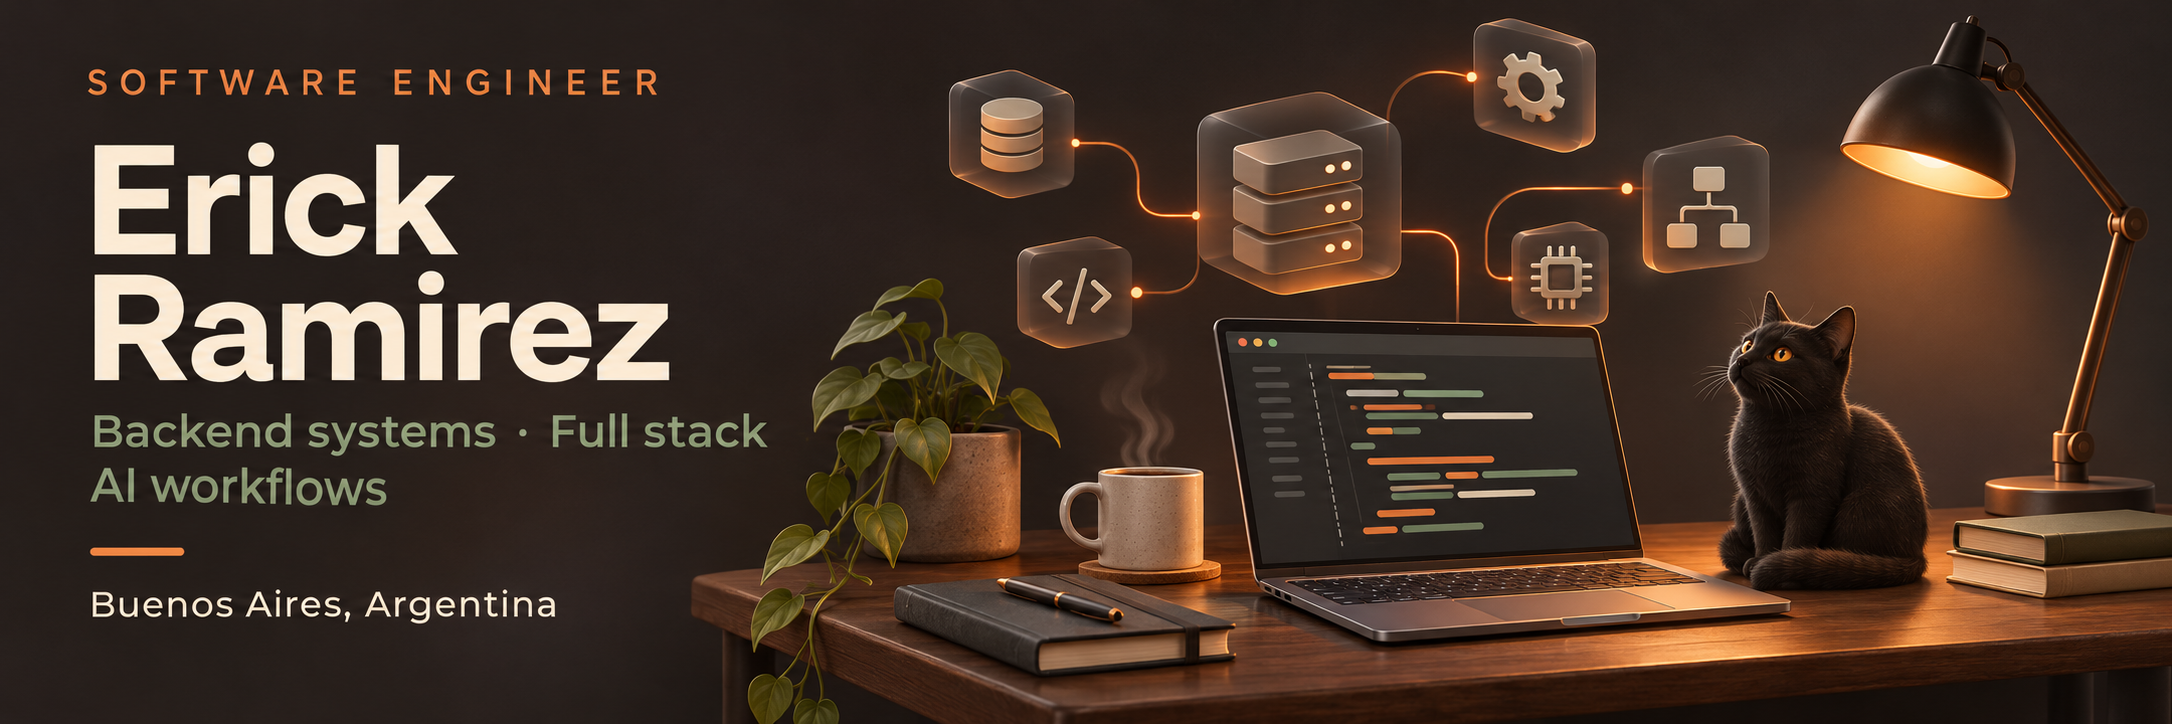
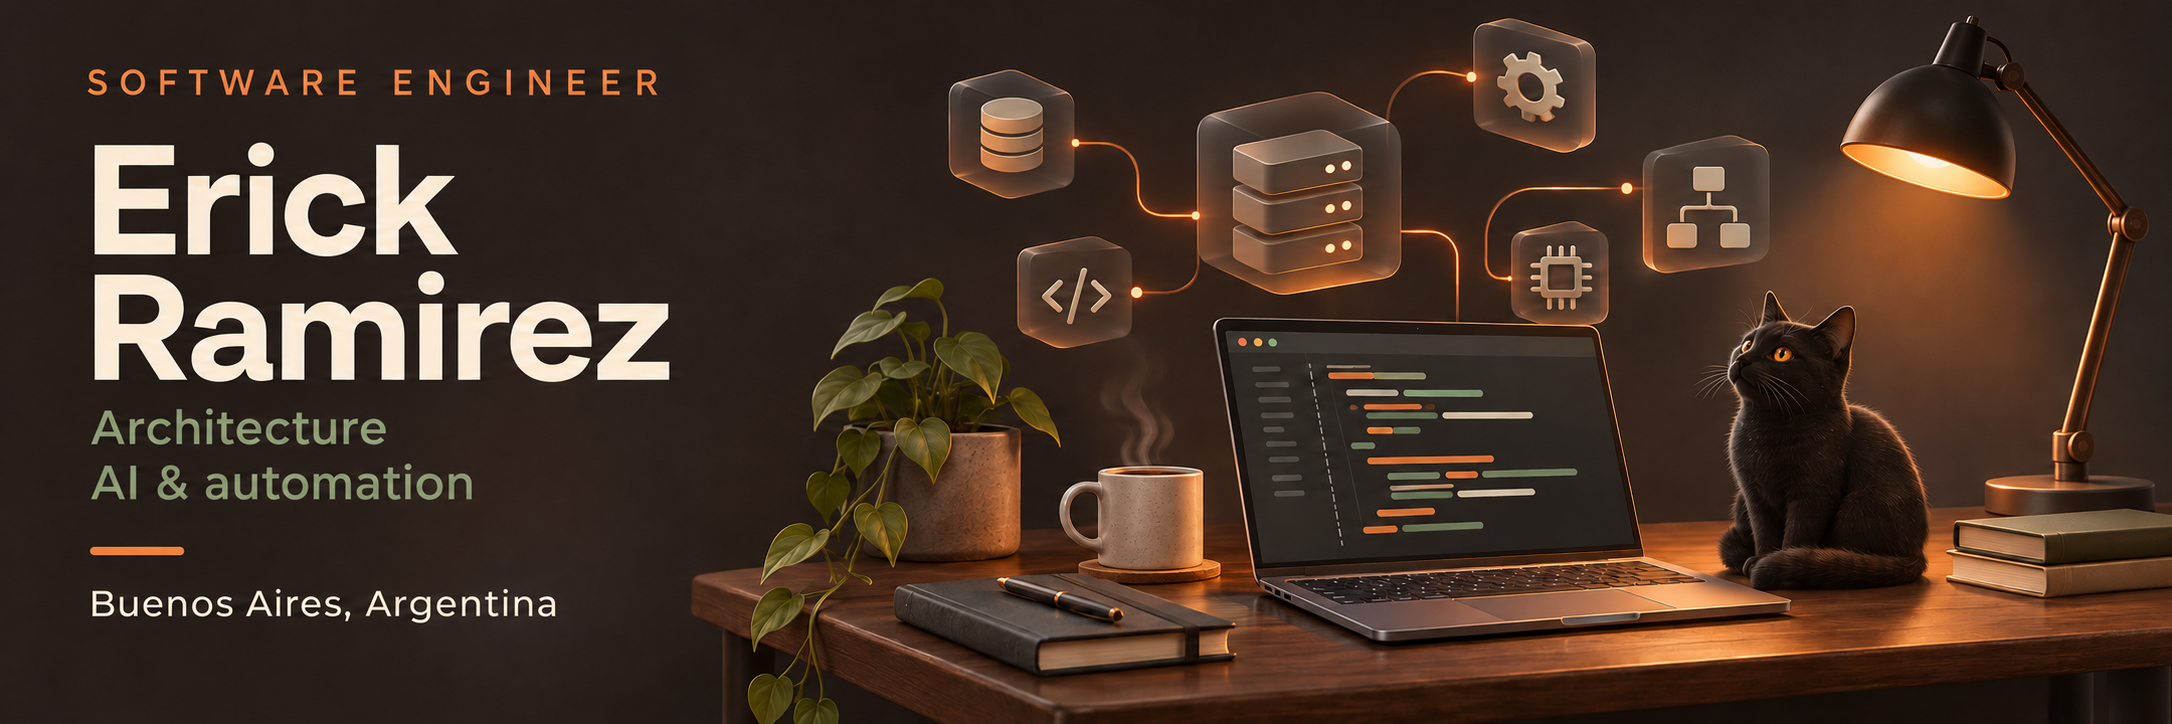
Feature Fiumba and simplify the profile presentation

diff --git a/README.md b/README.md
@@ -1,14 +1,12 @@
 <p>
-  <img src="./assets/erick-ramirez-github.png" width="100%" alt="Erick Ramirez — Software Engineer in Buenos Aires, Argentina. Backend systems, full stack and AI workflows. A warm-lit engineering desk with a black cat.">
+  <img src="./assets/erick-ramirez-github-v2.png" width="100%" alt="Erick Ramirez — Software Engineer in Buenos Aires, Argentina. Architecture, AI and automation. A warm-lit engineering desk with a black cat.">
 </p>
 
 <p align="center">
-  <a href="https://www.linkedin.com/in/erickrrb/"><strong>LinkedIn ↗</strong></a>
-  &nbsp; · &nbsp;
-  <a href="#selected-projects">Explore my projects ↓</a>
+  <a href="https://www.linkedin.com/in/erickrrb/" title="LinkedIn de Erick Ramirez"><img src="./assets/linkedin.svg" width="32" height="32" alt="LinkedIn de Erick Ramirez"></a>
 </p>
 
-I'm a **Senior Software Engineer** based in Buenos Aires. I work on backend systems and full stack products, including APIs, microservices and payment integrations, and take work through implementation, deployment and production support.
+I'm a **Senior Software Engineer** based in Buenos Aires. I build software products and internal tools, working on architecture, implementation and production support.
 
 I also build AI-assisted development workflows for engineering teams, connecting project context with coding agents and MCP integrations. I help teams adopt them through demos, documentation and technical support.
 
@@ -23,16 +21,16 @@ I also build AI-assisted development workflows for engineering teams, connecting
 
 <p align="center">
   <a href="https://pbeaux.com/"><img src="./assets/projects/pbeaux-card.png" width="264" alt="Pbeaux: a digital magazine built with Next.js. Screenshot of the live site; click to open."></a>
-  <a href="https://savings-dashboard.vercel.app/"><img src="./assets/projects/savings-card.png" width="264" alt="Savings Dashboard: monthly budgets and daily spending, stored in your browser. Screenshot of the live app; click to open."></a>
+  <a href="https://fiumba.bet/"><img src="./assets/projects/fiumba-card.png" width="264" alt="Fiumba: prediction markets with virtual Play credits. Screenshot of the public app; click to open."></a>
   <a href="https://github.com/ErickRRB/tizen-tv-home"><img src="./assets/projects/quiet-home-card.png" width="264" alt="Quiet Home: a native Samsung Tizen launcher built with C# and .NET. Interface schematic from the project documentation, not a TV screenshot; click for the source and compatibility notes."></a>
 </p>
 
 <p align="center">
-  Source: <a href="https://github.com/ErickRRB/Pbeaux">Pbeaux</a>
+  <a href="https://github.com/ErickRRB/Pbeaux">Pbeaux source</a>
   &nbsp; · &nbsp;
-  <a href="https://github.com/ErickRRB/SavingsDashboard">Savings Dashboard</a>
+  <a href="https://fiumba.bet/">Fiumba live</a>
   &nbsp; · &nbsp;
-  <a href="https://github.com/ErickRRB/tizen-tv-home">Quiet Home</a>
+  <a href="https://github.com/ErickRRB/tizen-tv-home">Quiet Home source</a>
 </p>
 
 ### Stack
@@ -55,6 +53,6 @@ My work also includes AWS, GCP, CI/CD, SQL Server and event-driven systems.
 
 I've been working in software since 2018, across banking platforms, ERP applications and product engineering. Alongside implementation, I review code, help unblock technical work and coordinate people on larger initiatives.
 
-My current focus combines backend architecture, full stack delivery and tools that help engineering teams understand their code and prepare changes for release.
+My current focus is software architecture and AI-assisted engineering, including tools that help teams understand their code and prepare changes for release.
 
 </details>

diff --git a/ASSETS.md b/ASSETS.md
@@ -1,10 +1,12 @@
 # Visual assets
 
-- `assets/erick-ramirez-github.png`: original illustration generated for Erick Ramirez with the built-in image generation tool, November 2026. It illustrates a desk and a cat; it is not a photograph of Erick's workspace.
+- `assets/erick-ramirez-github.png` and `assets/erick-ramirez-github-v2.png`: illustration generated for Erick Ramirez with the built-in image generation tool, November 2026. It illustrates a desk and a cat; it is not a photograph of Erick's workspace. The current wording is architecture, AI and automation.
 - `assets/workflow.gif` and `assets/workflow.png`: a procedural workflow diagram created for this profile. The PNG is the alternative for reduced motion preferences.
 - `assets/projects/pbeaux-card.png`: screenshot of the public Pbeaux homepage, presented in a project card.
 - `assets/projects/savings-card.png`: screenshot of the public Savings Dashboard in a new browser context, with empty/default values. No personal financial data is included.
+- `assets/projects/fiumba-card.png`: screenshot of the public Fiumba app in a new browser context. The card links to the live project.
 - `assets/projects/quiet-home-card.png`: the interface schematic from the public Tizen TV Home documentation, presented in a project card. It is not a screenshot of a television.
 - `assets/stack/*.svg`: technology marks from [Simple Icons](https://simpleicons.org/), adapted into labeled tiles. Simple Icons distributes its collection under [CC0](https://github.com/simple-icons/simple-icons/blob/develop/LICENSE.md). Individual marks remain the property of their owners.
+- `assets/linkedin.svg`: LinkedIn mark from [Devicon](https://github.com/devicons/devicon), distributed under the [MIT license](https://github.com/devicons/devicon/blob/master/LICENSE). The mark remains the property of LinkedIn.
 
 Project screenshots and the Quiet Home schematic retain the rights of their respective source projects. Their presence here identifies Erick's work and links directly to each public project.
